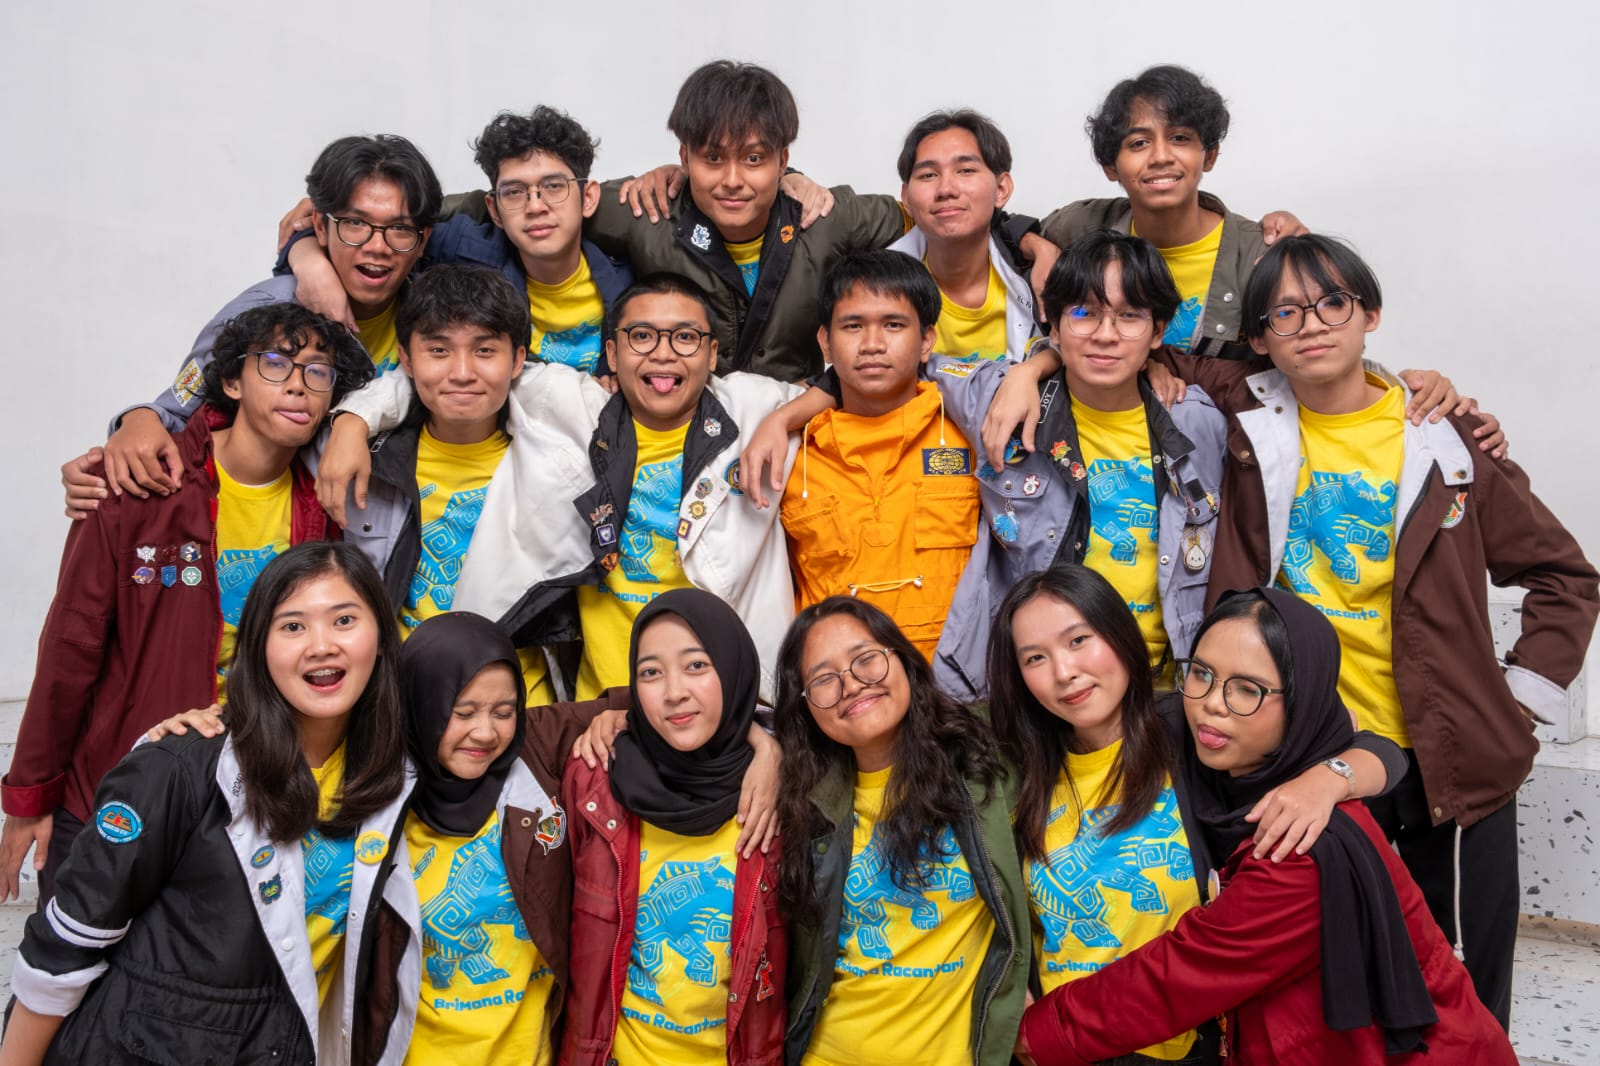
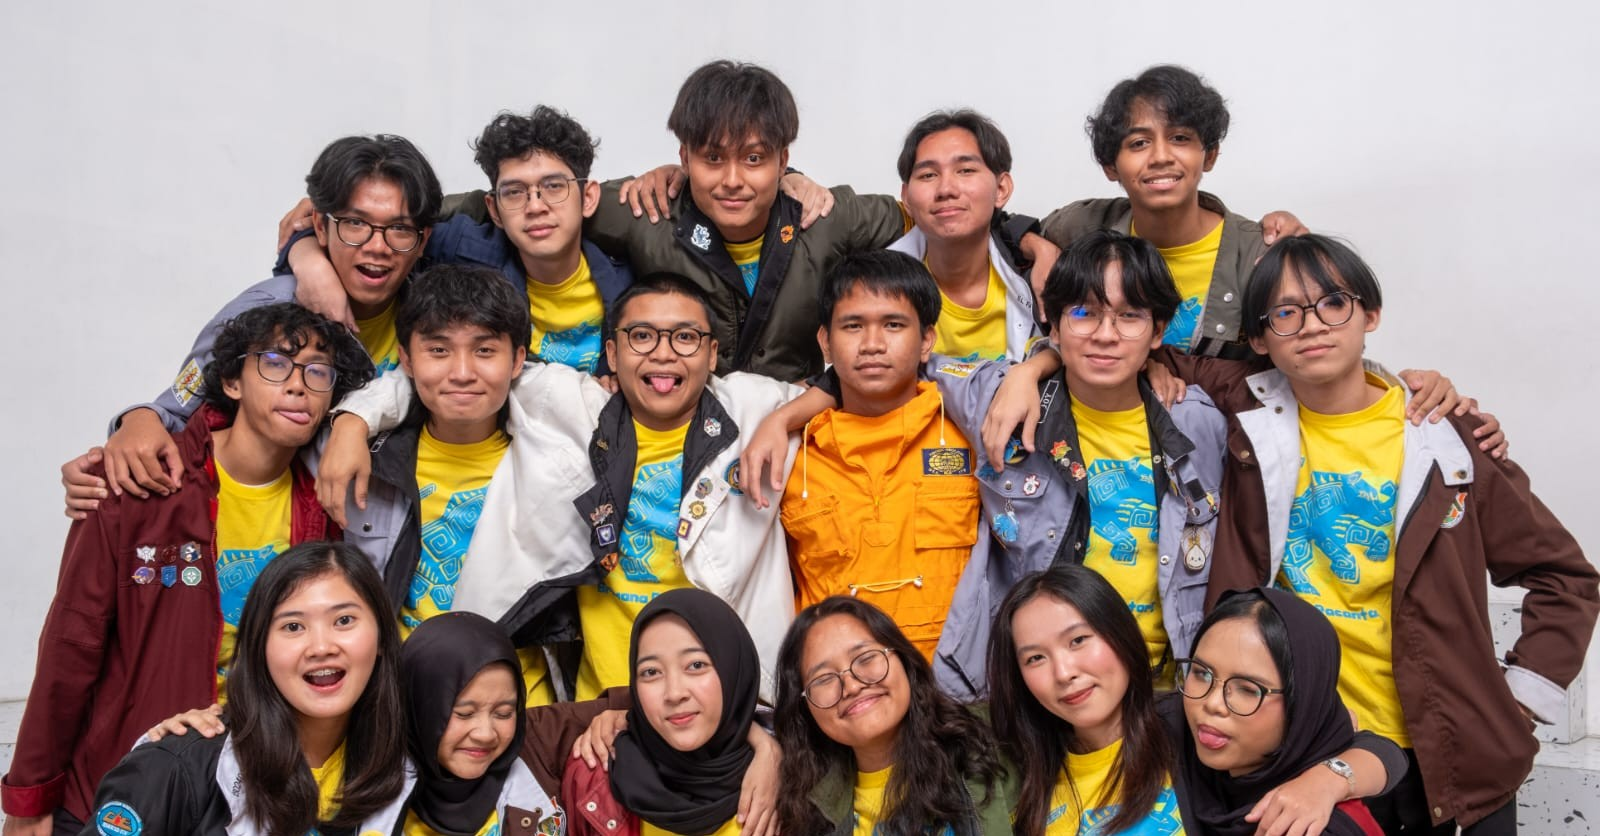
perubahan kata

diff --git a/index.html b/index.html
@@ -330,7 +330,7 @@
                         </div>
                         <h3 class="card-heading">Pasopati ITB</h3>
                         <p class="card-description">
-                            Keterlibatan strategis dalam unit/tim legendaris Pasopati ITB. Fokus pada pergerakan taktis, pengamanan nilai esensial KM ITB, serta mengasah kepemimpinan tingkat lanjut melalui aksi nyata di lapangan.
+                            Keterlibatan strategis dalam unit/tim legendaris Pasopati ITB. Fokus pada pergerakan taktis, pengamanan 3 pilar UKM Pasopati, serta mengasah kepemimpinan tingkat lanjut melalui aksi nyata di lapangan.
                         </p>
                     </div>
                 </section>
